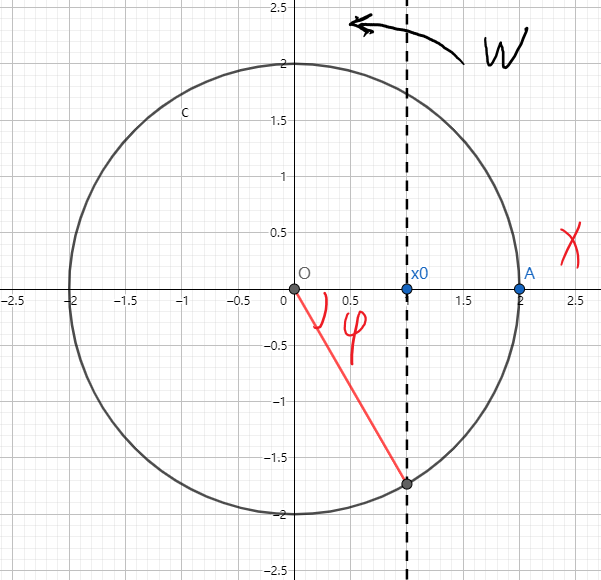
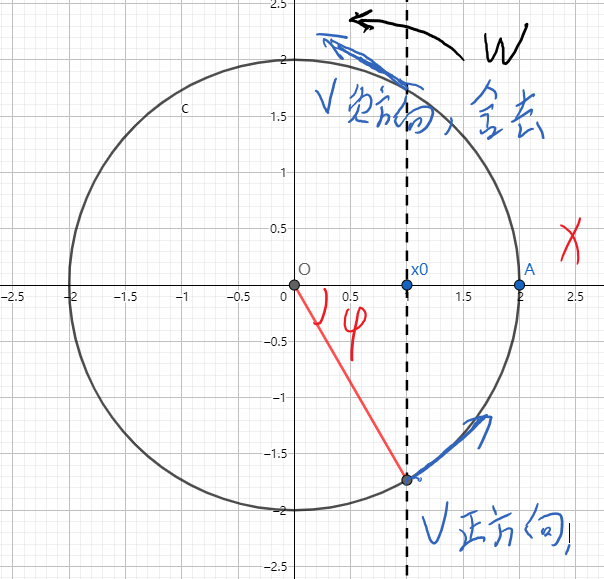
update

Changed region(s): [[0.0, 0.0, 1.0, 1.0], [0.0599, 0.5907, 0.0899, 0.6218]]

diff --git a/source/_posts/2018-05-18-dawu.md b/source/_posts/2018-05-18-dawu.md
@@ -17,6 +17,7 @@ tag:
 	- 期末复习
 
 math: true
+
 typora-root-url: ..
 ---
 
@@ -144,6 +145,8 @@ $m_{1}v_{1}+m_{2}v_{2} = (m_{1}+m_{2})v$
 
 # 简谐振动
 
+## 振动方程
+
 $\boldsymbol{x}=A \cos (\omega \boldsymbol{t}+\varphi)$
 
 振幅：$A=\left| x_{max} \right|$
@@ -175,5 +178,26 @@ $a_{max} = A\omega ^ 2$
 3. 找出初始位置x对应的点（根据方向）
 4. 画矢量，写初相
 
-![image-20210513143406580](/images/posts/dawu/image-20210513143200913.png)
+> **例：某物体沿x轴做简谐振动，振幅为A，若初始位移$x_{0}=\frac{A}{2}$，初始速度沿X轴正方向，则其初相为**
+>
+> ![image-20210513150658852](/images/posts/dawu/image-20210513143200913.png)
+>
+> 故$\varphi=-\frac{\pi}{3}$
 
+
+
+## 振动的能量和功
+
+系统机械能 = 小球动能 + 弹簧弹性势能
+
+$E_{总}= E_{k}+ E_{p}= \frac{1}{2}mv^2+\frac{1}{2}kx^2$
+
+$E_{总}=\frac{1}{2}kA^2$
+
+## 振动的合成
+
+$A=\sqrt{A_{1}^2+A_{2}^2+2A_{1}A_{2}\cos (\varphi_{1}-\varphi_{2})}$
+
+$\tan \varphi = \frac{A_{1}\sin \varphi_{1} + A_{2}\sin \varphi_{2}}{A_{1}\cos \varphi_{1} + A_{2}\cos \varphi_{2}}$
+
+# 机械波
